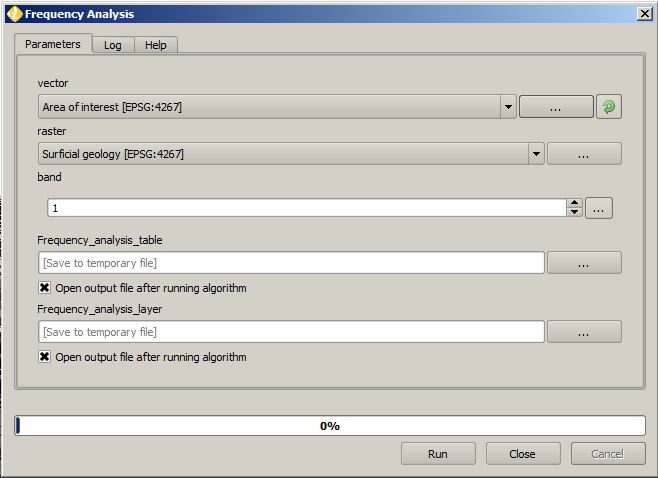
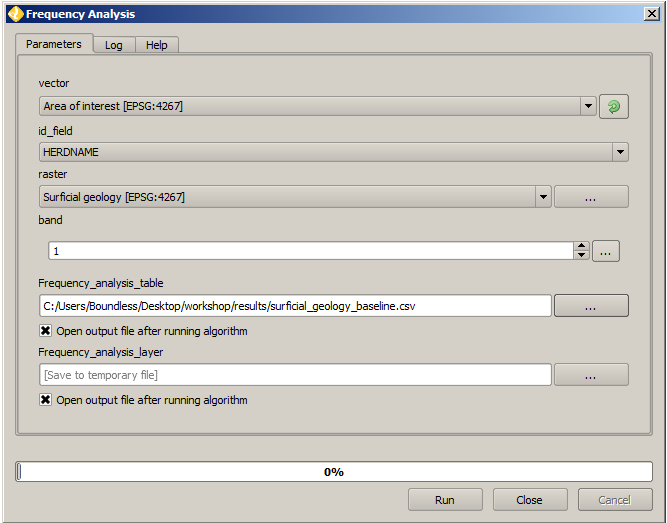
zonal stats

diff --git a/workshops/qgis/doc/source/processing/downloads/FrequencyStats.py b/workshops/qgis/doc/source/processing/downloads/FrequencyStats.py
@@ -12,6 +12,7 @@ the Free Software Foundation; either version 2 of the License, or
 ##Frequency Analysis=name
 ##Raster=group
 ##vector=vector polygon
+##id_field=field vector
 ##raster=raster
 ##band=number 1
 ##Frequency_analysis_table=output table
@@ -127,16 +128,16 @@ layers are in the same CRS - we assume they are.
                     myFeature.id())            
 
         intersected_geometry = raster_geometry.intersection(geometry)
-        
+
+        # fix multi-geometries which are created with non-polygons
         if intersected_geometry.type() != QGis.Polygon:
             geomcollection = intersected_geometry.asGeometryCollection()
-            intersected_geometry = geomcollection.pop()
-            for g in geomcollection:
-                if g.type() == QGis.Polygon:
-                    if intersected_geometry:
-                        intersected_geometry.combine(g)
-                    else:
-                        intersected_geometry = g
+            polygons = [ g for g in geomcollection if g.type() == QGis.Polygon ]
+            multipolygon = polygons.pop()
+            for p in polygons:
+                multipolygon = multipolygon.combine(p)
+            intersected_geometry = multipolygon
+            
         
         count, freq = numpy_stats(
             band,
@@ -198,7 +199,7 @@ and the frequency distribution of these pixel values.
     x_max = bbox.xMaximum()
     y_min = bbox.yMinimum()
     y_max = bbox.yMaximum()
-
+    
     start_column, start_row = mapToPixel(x_min, y_max, geo_transform)
     end_column, end_row = mapToPixel(x_max, y_min, geo_transform)
 
@@ -223,7 +224,7 @@ and the frequency distribution of these pixel values.
 
     # Create a temporary vector layer in memory
     mem_ds = mem_drv.CreateDataSource('out')
-    mem_layer = mem_ds.CreateLayer('poly', crs, ogr.wkbPolygon)
+    mem_layer = mem_ds.CreateLayer('poly', crs, ogr.wkbMultiPolygon)
 
     feat = ogr.Feature(mem_layer.GetLayerDefn())
     feat.SetGeometry(geom)
@@ -282,7 +283,7 @@ for stats in frequency_analysis.itervalues():
 values = list(set(values))
 
 layer_writer = VectorWriter(Frequency_analysis_layer, None, fields, provider.geometryType(), polygon_layer.crs())
-table_writer = TableWriter(Frequency_analysis_table, None, ['fid', 'majority'] + ['value: %d' % v for v in values])
+table_writer = TableWriter(Frequency_analysis_table, None, [id_field, 'majority'] + ['value: %d' % v for v in values])
 
 for i, feat in enumerate(features):
     progress.setPercentage(int(100 * i / n))
@@ -309,7 +310,7 @@ for i, feat in enumerate(features):
     layer_writer.addFeature(outFeat)   
     
     # write to table
-    row = [fid, majority]
+    row = [feat[id_field], majority]
     d = {f[0] : f[1] for f in freq}
     for v in values:
       if v in d:

diff --git a/workshops/qgis/doc/source/processing/rasterisation.rst b/workshops/qgis/doc/source/processing/rasterisation.rst
@@ -41,9 +41,11 @@ Converting vectors to rasters
 
 If we proceed with the data configured as it currently is, the **Surficial geology** layer's complexity would cause our processing algorithms to be extremely slow due to the complex nature of the data. Since our goal is to see if there is a relationship between geology and antelope ranges, we want to be able to calculate statistics concerning the relationship between different layers. The best way to make these calculations practical is to convert the **Surficial geology** layer to a raster using a **Rasterize** process, but we will require a numerical attribute to assign to the raster sample points when we make the conversion. Therefore, to create a raster, we must first convert each of the **RECLASS** codes into a numeric value that will then be encoded in the raster, something which can be accomplished with a process named **Create equivalent numerical field**.
 
-#. Run the process **Create equivalent numerical field** from the :menuselection:`Scripts --> Vector` category with the inputs **Surficial geology** and **RECLASS**. A new layer named **Equivalent_numerical_field_layer** with an extra **NUM_FIELD** attribute will be created. Additionally, the script will also create a new non-spatial layer named **Equivalent_numberical_field_table** with a list of what each of the numerical values in the new raster layer refers to.
+#. Configure the process **Create equivalent numerical field** from the :menuselection:`Scripts --> Vector` category with the inputs **Surficial geology** and **RECLASS**. A new layer named **Equivalent_numerical_field_layer** with an extra **NUM_FIELD** attribute will be created. Additionally, the script will also create a new non-spatial layer named **Equivalent_numberical_field_table** with a list of what each of the numerical values in the new raster layer refers to.
 
    .. warning:: There is a **Create equivalent numerical field** process in the :menuselection:`QGIS geoalgorithms --> Vector table tools` cateogry. Functionally, the two will create equivalent output layers; however, only the process in the :menuselection:`Scripts --> Vector` category will create the reference table.
+
+#. Run the process, saving the results to ``workshop\results\surfifical_geology_lookup.csv``.
 
 #. Run the process **Rasterize** with the inputs **Equivalent_numerical_field_layer** and **NUM_FIELD**. We can keep the default size of 3000 by 3000 pixels. The new raster layer will appear in the layer list.
 
@@ -51,8 +53,10 @@ If we proceed with the data configured as it currently is, the **Surficial geolo
 
       **Suficial geology** after conversion to a raster
 
-#. Clip the new **Output layer** to the **Area of interest** layer using the **Clip raster by mask layer** algorithm from the processing toolbox. Make sure to use a :guilabel:`Nodata` value of :kbd:`-32768` and set :guilabel:`Keep resolution of output raster` to :kbd:`Yes`.
+#. Clip the new **Output layer** to the **Area of interest** layer using the **Clip raster by mask layer** algorithm from the processing toolbox. Make sure to use a :guilabel:`Nodata` value of :kbd:`-32768` and set :guilabel:`Keep resolution of output raster` to :kbd:`Yes`. Set the output file name to be ``workshop\temp\surfgeol_500k.tif``.
+
+   .. note:: We are using the ``temp`` directory to store useful files that we will use during the workshop, but which are not actual data sets.
 
 #. Delete **Equivalent_numerical_field_layer** and the non-clipped **Output layer** from the layer list since we no longer need these intermediary layers. We should now have a clipped raster that represents the geology of the land in our are of interest. Clicking on the raster with the identify tool will give us a value which can be referenced in the **Equivalent_numerical_field_table**. 
 
-#. Give our new layers some more descriptive names: **Surficial geology** for the new raster and **Surficial geology (RECLASS reference)** for our reference table.
+#. Give our new layers some more descriptive names: **Surficial geology** for the new raster and **Surficial geology (RECLASS lookup)** for our reference table.

diff --git a/workshops/qgis/doc/source/processing/zonal_stats.rst b/workshops/qgis/doc/source/processing/zonal_stats.rst
@@ -1,0 +1,22 @@
+Zonal statistics
+================
+
+Now that we have a baseline to work with, we can calculate statistics on the geology types in each of the antelope ranges so that statistical analysis can be done to determine whether there is a correlation between the two variables.
+
+#. Run the **Frequency Analysis** process again, using **Seasonal ranges** and **RANGE** as the vector inputs and **Surficial geology** and band ``1`` as the raster inputs.
+
+#. The attribute table for the new **Frequency_analysis_table** will show the geological breakdown for each range. This is useful data, but since we are looking for correlations between ranges geology, we actually want to use an aggregation of geological types for all areas with the same **RANGE** value. In other words, we want to see, for example, if all the yearlong ranges are characterised by a particular geological type.
+
+#. Delete the two layers created by our first attempt above.
+
+#. Open the **Singleparts to multipart** process to combine all features that share the same value for the **RANGE** attribute. The new features will be multipolygon geometries after this process has run.
+
+#. Set the :guilabel:`Input layer` to **Seasonal ranges** and :guilabel:`Unique ID field` to **RANGE**.
+
+#. Run the **Singleparts to multipart** process.
+
+#. Now run the **Frequency Analysis** process again, but this time using the vector input as the new **Output layer**. Set the table output to be ``workshop/results/surficial_geology_ranges.csv``.
+
+#. Rename the output layer and table to **Seasonal ranges geology type** and move them both to the results group. These two layers provide a data analyst with detailed information required to determine whether there is a corrolation between geology types and how antelope use the land during different seasons. Some initial observations are that only the ``CRUWIN`` range is characterised by a geology type other than ``8`` (``ri``), although we can also see that antelope tend not to populate areas with type ``3`` (``Ri``). It is entirely possible that a statistical analysis will not find coorelation between geology and antelope ranges!
+
+#. Delete the layer that was the output of the **Singleparts to multiparts** process.

diff --git a/workshops/qgis/doc/source/processing/statistics.rst b/workshops/qgis/doc/source/processing/statistics.rst
@@ -12,13 +12,36 @@ We will be using a new process named **Frequency Analysis** to calculate the bre
 
 #. Set the :guilabel:`vector` to **Area of interest**.
 
+#. The :guilabel:`id_field` can be left as its default.
+
+   .. note:: When there are many features, the :guilabel:`id_field` sets which of the vector layer's fields to use as an identifier in the results. Since there **Area of interest** layer only has a single feature, we do not need to distinguish it from other features.
+
 #. Set the :guilabel:`raster` to **Surficial geology**. Since this layer only has a single band, we do not need to change the :guilabel:`band` setting.
 
 #. Keep the default outputs and execute the script.
+
+#. Set the :guilabel:`Frequency_analysis_table` output to be ``workshop\results\surficial_geology_baseline.csv``.
 
    .. figure:: images/frequency_analysis_aoi.png
 
       Overall frequency of geology types
       
-#. 
+#. Click :guilabel:`Run`.
 
+#. A new layer named **Frequency_analysis_layer** with a single feature will appear in the layer list.
+
+#. Click the feature with the identify tool. The results will show that approximately 35% of the land is covered by geology type ``8``, which can be cross-referenced in our automatically-generated **Surficial geology (RECLASS lookup)** table and identified as type ``ri`` (defined as "residuum mixed with alluvium, eolian, slopewash, grus, and/or bedrock outcrops").
+
+#. Click :guilabel:`Run`.
+
+#. Open the attribute table for **Frequency_analysis_table**. Here we can see the complete breakdown of the geology into the various types; of note are: ``1`` (``sci``) at 20%; ``3`` (``Ri``) at 12%; and ``5`` (``ai``) at 8%.
+
+   .. note:: QGIS also provides a visual representation of this breakdown if you open the :guilabel:`Histogram` tab on the properties dialog for the **Surficial geology** raster.
+
+      .. figure:: images/histogram.png
+
+         Histogram for the **Surficial geology** raster
+
+#. Delete the **Frequency_analysis_layer** from our project.
+
+#. Rename the **Frequency_analysis_table** to **Surficial geology (frequency analysis)**

diff --git a/workshops/qgis/doc/source/processing/groups.rst b/workshops/qgis/doc/source/processing/groups.rst
@@ -1,0 +1,18 @@
+Groups
+======
+
+To help organise the data we have been adding to our layer list, we can use QGIS's grouping feature.
+
+#. Right click in an empty area in the layer list.
+
+#. Select :guilabel:`Add New Group`.
+
+   .. figure:: image/add_layer_group.png
+
+      Adding a layer group
+
+#. Give the new group the name :kbd:`Data`.
+
+#. By dragging and dropping, move the following layers into the **Data** group: **Area of interest**, **Digital elevation model**, **Herd units**, **Seasonal ranges** and **Surficial geology** (vector). Since the **Surificial geology** raster is a temporary file we'll leave it outside of the **Data** group.
+
+#. Create a new group called **Results** and place the two tables into it.

diff --git a/workshops/qgis/doc/source/introduction/problem.rst b/workshops/qgis/doc/source/introduction/problem.rst
@@ -26,7 +26,7 @@ Preparation
 
 #. Create a new ``workshop`` directory.
 
-#. Create ``data`` and ``downloads`` directories inside ``workshop``.
+#. Create ``data``, ``downloads``, ``results`` and ``temp`` directories inside ``workshop``.
 
 #. Download the data files into ``workshop\downloads``.
 

diff --git a/workshops/qgis/doc/source/processing/index.rst b/workshops/qgis/doc/source/processing/index.rst
@@ -10,3 +10,5 @@ Processing
    clip
    rasterisation
    statistics
+   groups
+   zonal_stats
